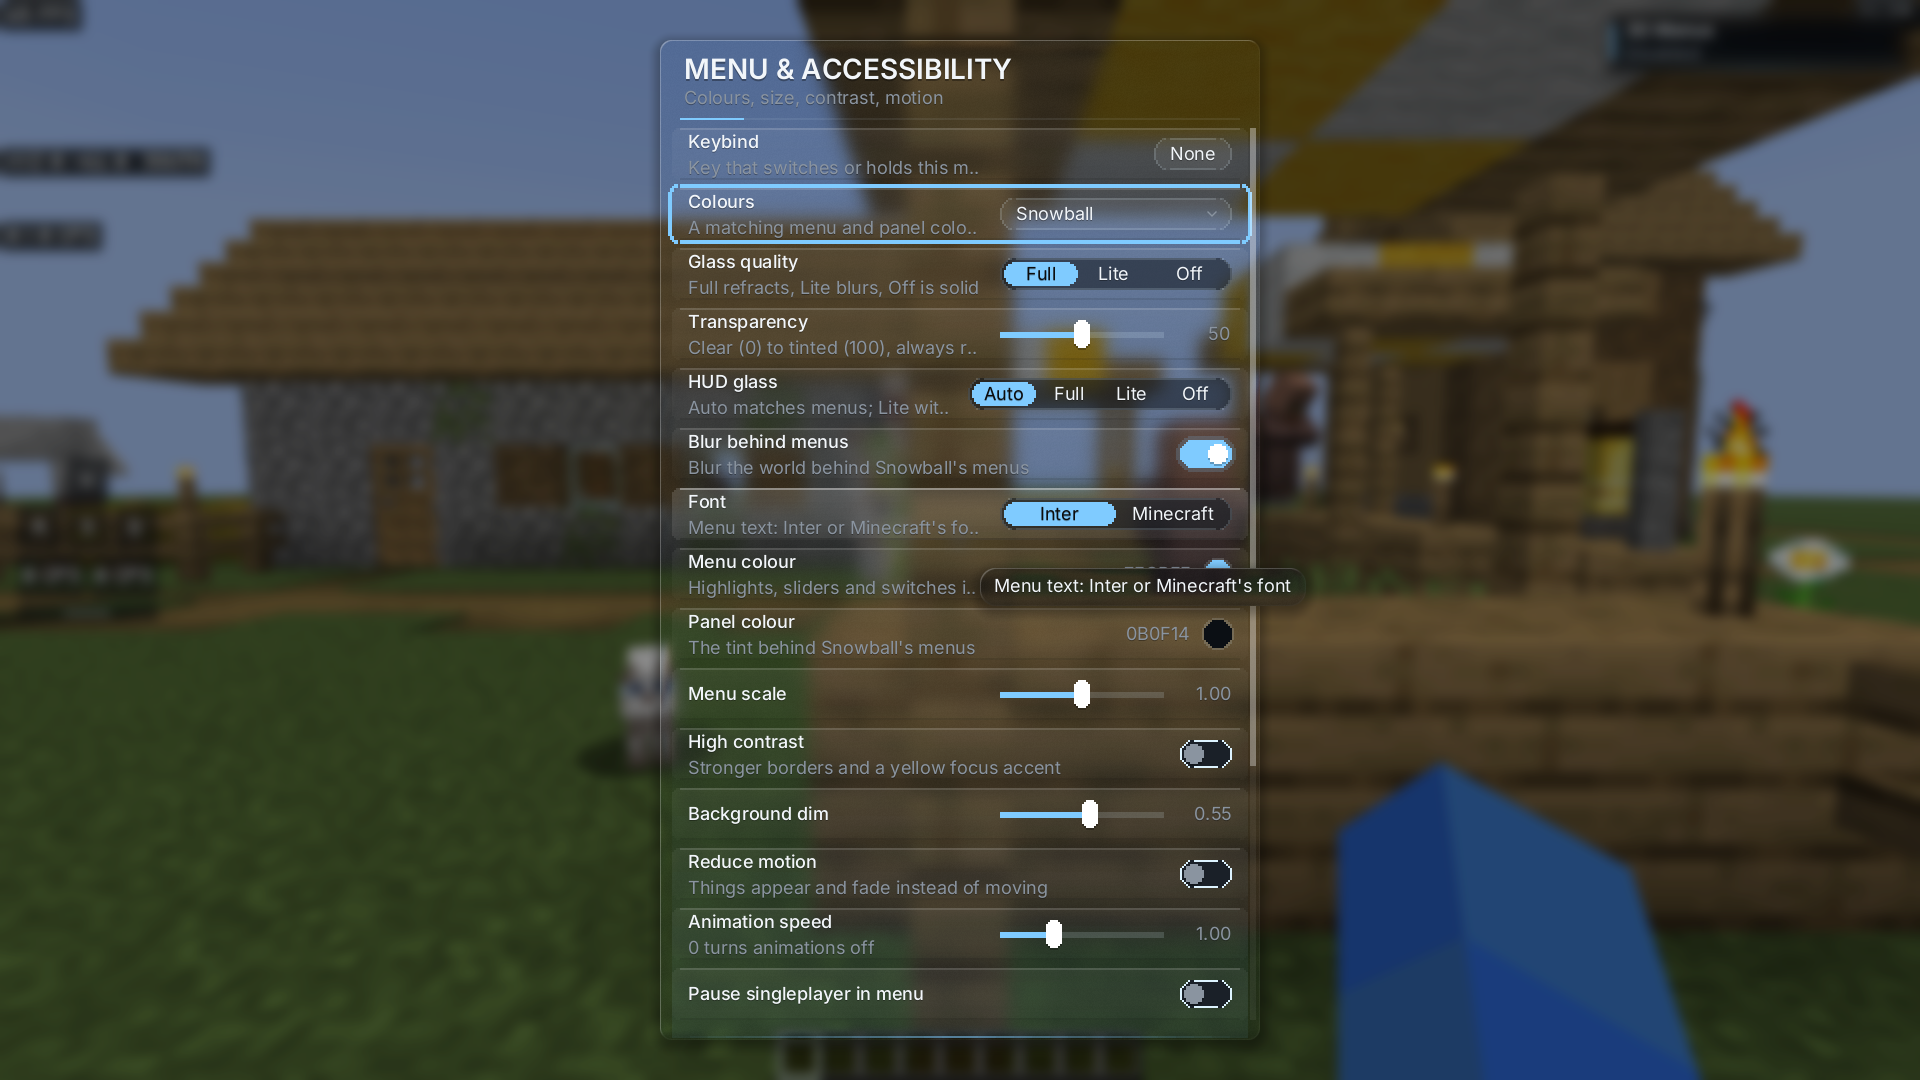
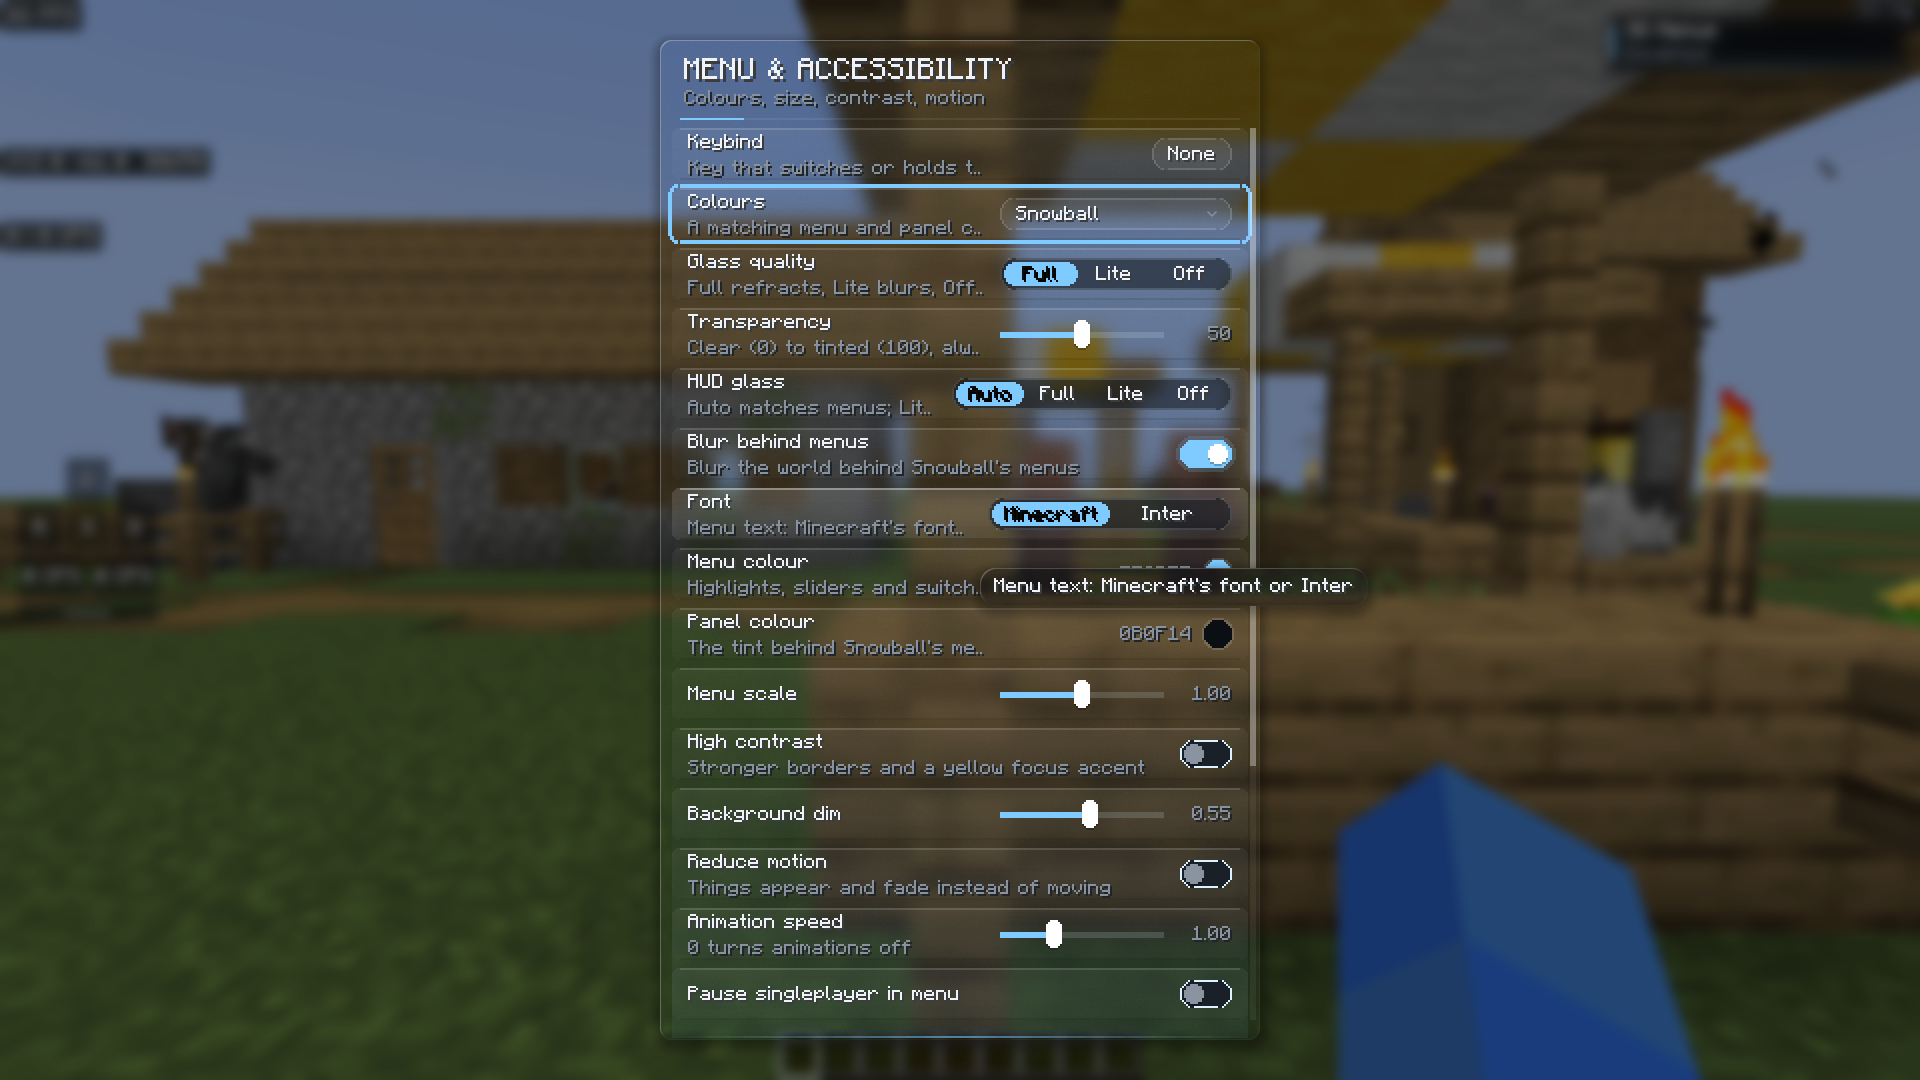
Snowball menus back in Minecraft's font by default
Minecraft's font is the default again everywhere, the main menu
included; Inter stays as the smooth-font option under Menu &
Accessibility. Anyone who had 1.10.0's Smooth text on keeps the smooth
font.

diff --git a/client/src/test/java/dev/snowballclient/client/gui/GlassLookTest.java b/client/src/test/java/dev/snowballclient/client/gui/GlassLookTest.java
@@ -18,7 +18,7 @@ class GlassLookTest {
 		assertTrue(theme.blurBehind);
 		assertEquals(50, theme.glassLevel(), "Regular is the default");
 		assertEquals(0.82f, theme.panelOpacity, 0.001f, "flat panels keep their old default opacity");
-		assertEquals(Theme.FONT_INTER, theme.font);
+		assertEquals(Theme.FONT_MINECRAFT, theme.font, "Minecraft's font is the default, as before Snowglass");
 		assertEquals(Theme.HUD_GLASS_AUTO, theme.hudGlass);
 		assertFalse(theme.reduceMotion);
 	}
@@ -30,7 +30,7 @@ class GlassLookTest {
 		theme.setGlassLevel(75);
 		theme.hudGlass = Theme.GLASS_OFF;
 		theme.reduceMotion = true;
-		theme.font = Theme.FONT_MINECRAFT;
+		theme.font = Theme.FONT_INTER;
 		theme.blurBehind = false;
 		Theme loaded = new Theme();
 		loaded.fromJson(theme.toJson());
@@ -38,7 +38,7 @@ class GlassLookTest {
 		assertEquals(75, loaded.glassLevel());
 		assertEquals(Theme.GLASS_OFF, loaded.hudGlass);
 		assertTrue(loaded.reduceMotion);
-		assertEquals(Theme.FONT_MINECRAFT, loaded.font);
+		assertEquals(Theme.FONT_INTER, loaded.font);
 		assertFalse(loaded.blurBehind);
 		assertTrue(loaded.glass());
 		assertFalse(loaded.liquid());
@@ -62,7 +62,7 @@ class GlassLookTest {
 		loaded.fromJson(broken);
 		assertEquals(Theme.GLASS_FULL, loaded.glassQuality);
 		assertTrue(loaded.blurBehind);
-		assertEquals(Theme.FONT_INTER, loaded.font);
+		assertEquals(Theme.FONT_MINECRAFT, loaded.font);
 		assertEquals(100, loaded.glassLevel());
 	}
 
@@ -122,8 +122,8 @@ class GlassLookTest {
 		settings.glassLevel.set(100.0);
 		assertEquals(100, theme.glassLevel());
 		assertEquals(1f, theme.panelOpacity, 0.001f);
-		settings.font.set(Theme.FONT_MINECRAFT);
-		assertEquals(Theme.FONT_MINECRAFT, theme.font);
+		settings.font.set(Theme.FONT_INTER);
+		assertEquals(Theme.FONT_INTER, theme.font);
 		settings.reduceMotion.set(true);
 		assertEquals(0f, theme.motion());
 		settings.hudGlass.set(Theme.GLASS_LITE);
@@ -141,6 +141,22 @@ class GlassLookTest {
 		assertEquals(Theme.MAX_SCALE, theme.scale);
 		settings.scale.set(0.5);
 		assertEquals(Theme.MIN_SCALE, theme.scale);
+	}
+
+	@Test
+	void smoothTextFromBeforeSnowglassBecomesTheSmoothFont() {
+		Theme theme = new Theme();
+		dev.snowballclient.client.module.ModuleManager modules = new dev.snowballclient.client.module.ModuleManager();
+		InterfaceSettings settings = modules.register(new InterfaceSettings(theme, new ClientSettings()));
+		modules.loadState(com.google.gson.JsonParser.parseString("{\"interface\":{\"settings\":{\"smooth_font\":true}}}").getAsJsonObject());
+		assertEquals(Theme.FONT_INTER, settings.font.get(), "a player who turned Smooth text on keeps it");
+		assertEquals(Theme.FONT_INTER, theme.font);
+
+		Theme other = new Theme();
+		dev.snowballclient.client.module.ModuleManager modules2 = new dev.snowballclient.client.module.ModuleManager();
+		InterfaceSettings settings2 = modules2.register(new InterfaceSettings(other, new ClientSettings()));
+		modules2.loadState(com.google.gson.JsonParser.parseString("{\"interface\":{\"settings\":{\"smooth_font\":false}}}").getAsJsonObject());
+		assertEquals(Theme.FONT_MINECRAFT, settings2.font.get(), "everyone else keeps Minecraft's font");
 	}
 
 	@Test

diff --git a/client/src/main/java/dev/snowballclient/client/module/client/InterfaceSettings.java b/client/src/main/java/dev/snowballclient/client/module/client/InterfaceSettings.java
@@ -1,5 +1,7 @@
 package dev.snowballclient.client.module.client;
 
+import com.google.gson.JsonElement;
+import com.google.gson.JsonObject;
 import dev.snowballclient.client.config.ClientSettings;
 import dev.snowballclient.client.gui.theme.Theme;
 import dev.snowballclient.client.module.Module;
@@ -69,7 +71,7 @@ public final class InterfaceSettings extends Module {
 		glassLevel = setting(new NumberSetting("glass_level", "Transparency", "Clear (0) to tinted (100), always readable", factory.glassLevel(), 0, 100, 5));
 		hudGlass = setting(new ChoiceSetting("hud_glass", "HUD glass", "Auto matches menus; Lite with FPS Boost", factory.hudGlass, Theme.HUD_GLASS));
 		blurBehind = setting(new BooleanSetting("blur_behind", "Blur behind menus", "Blur the world behind Snowball's menus", true));
-		font = setting(new ChoiceSetting("font", "Font", "Menu text: Inter or Minecraft's font", factory.font, Theme.FONTS));
+		font = setting(new ChoiceSetting("font", "Font", "Menu text: Minecraft's font or Inter", factory.font, Theme.FONTS));
 		menuColor = setting(new ColorSetting("menu_color", "Menu colour", "Highlights, sliders and switches in every Snowball menu", factory.accentColor));
 		panelColor = setting(new ColorSetting("panel_color", "Panel colour", "The tint behind Snowball's menus", factory.surfaceColor).presets(PANEL_PRESETS));
 		scale = setting(new NumberSetting("scale", "Menu scale", "", theme.scale, Theme.MIN_SCALE, Theme.MAX_SCALE, 0.05));
@@ -165,6 +167,15 @@ public final class InterfaceSettings extends Module {
 	@Override
 	public boolean isToggleable() {
 		return false;
+	}
+
+	/** Smooth text (1.10.0) became the Font setting: a player who had it on keeps the smooth font. */
+	@Override
+	protected void migrateSettings(JsonObject saved) {
+		JsonElement smooth = saved.get("smooth_font");
+		if (!saved.has("font") && smooth != null && smooth.isJsonPrimitive() && smooth.getAsJsonPrimitive().isBoolean() && smooth.getAsBoolean()) {
+			saved.addProperty("font", Theme.FONT_INTER);
+		}
 	}
 
 	public boolean consumeThemeDirty() {

diff --git a/client/src/main/java/dev/snowballclient/client/gui/theme/Theme.java b/client/src/main/java/dev/snowballclient/client/gui/theme/Theme.java
@@ -22,7 +22,7 @@ public final class Theme {
 	public static final List<String> HUD_GLASS = List.of(HUD_GLASS_AUTO, GLASS_FULL, GLASS_LITE, GLASS_OFF);
 	public static final String FONT_INTER = "inter";
 	public static final String FONT_MINECRAFT = "minecraft";
-	public static final List<String> FONTS = List.of(FONT_INTER, FONT_MINECRAFT);
+	public static final List<String> FONTS = List.of(FONT_MINECRAFT, FONT_INTER);
 	public static final float MIN_SCALE = 0.75f;
 	public static final float MAX_SCALE = 1.25f;
 	/** The panel colour before Snowglass, migrated to the brand surface colour when it was never changed. */
@@ -54,8 +54,8 @@ public final class Theme {
 	public String hudGlass = HUD_GLASS_AUTO;
 	/** Short fades instead of movement. */
 	public boolean reduceMotion = false;
-	/** {@link #FONT_INTER} or {@link #FONT_MINECRAFT} in Snowball's menus. */
-	public String font = FONT_INTER;
+	/** {@link #FONT_MINECRAFT} (the default) or {@link #FONT_INTER} in Snowball's menus. */
+	public String font = FONT_MINECRAFT;
 	/** Blur the world behind Snowball's menus, on versions that can. */
 	public boolean blurBehind = true;
 
@@ -250,7 +250,8 @@ public final class Theme {
 	 * Upgrades a gui.json written before Snowglass (schema 1): the look becomes a glass quality, panel
 	 * opacity becomes a glass level, animation speed 0 becomes Reduce Motion, and the old default panel
 	 * colour becomes the brand's. Values a player chose themselves are kept as close as the new settings
-	 * allow. Smooth text was off by default and Inter is now on for everyone, so it is not carried over.
+	 * allow. The font was never in gui.json (Smooth text lived in modules.json; InterfaceSettings carries
+	 * it over), so Minecraft's font stays the default, as it was.
 	 */
 	public static JsonObject migrateFromV1(JsonObject o) {
 		JsonElement style = o.remove("style");

diff --git a/client/src/main/java/dev/snowballclient/client/gui/UiText.java b/client/src/main/java/dev/snowballclient/client/gui/UiText.java
@@ -144,14 +144,7 @@ public final class UiText {
 
 	/** Whether text on this canvas is smooth right now. */
 	public static boolean smooth(Canvas c) {
-		return (alwaysSmooth || ModuleRegistry.INTERFACE == null || Theme.FONT_INTER.equals(ModuleRegistry.INTERFACE.font.get())) && SmoothText.usable(c);
-	}
-
-	private static boolean alwaysSmooth;
-
-	/** Smooth text whatever the Font setting says, until set back: the main menu always has it. Render thread only. */
-	public static void setAlwaysSmooth(boolean on) {
-		alwaysSmooth = on;
+		return (ModuleRegistry.INTERFACE == null || Theme.FONT_INTER.equals(ModuleRegistry.INTERFACE.font.get())) && SmoothText.usable(c);
 	}
 
 	/** The weight of the smooth font used for this kind of text. */

diff --git a/client/src/main/java/dev/snowballclient/client/gui/TitleMenuView.java b/client/src/main/java/dev/snowballclient/client/gui/TitleMenuView.java
@@ -215,16 +215,6 @@ public final class TitleMenuView extends View {
 
 	@Override
 	public void render(Canvas c, int mouseX, int mouseY, float partialTick) {
-		// The main menu is always in the smooth font; Snowball's other menus follow Smooth text.
-		UiText.setAlwaysSmooth(true);
-		try {
-			renderMenu(c, mouseX, mouseY, partialTick);
-		} finally {
-			UiText.setAlwaysSmooth(false);
-		}
-	}
-
-	private void renderMenu(Canvas c, int mouseX, int mouseY, float partialTick) {
 		if (ModuleRegistry.INTERFACE != null && !ModuleRegistry.INTERFACE.customMainMenu.isOn()) {
 			actions.showVanillaTitle();
 			return;

diff --git a/client/src/test/java/dev/snowballclient/client/config/ConfigTest.java b/client/src/test/java/dev/snowballclient/client/config/ConfigTest.java
@@ -178,7 +178,7 @@ class ConfigTest {
 		assertEquals(Theme.MAX_SCALE, theme.scale, "menu scale is clamped to 75-125%");
 		assertEquals(0xFFB794FF, theme.accentColor);
 		assertFalse(theme.blurBehind);
-		assertEquals(Theme.FONT_INTER, theme.font, "Inter is on for everyone");
+		assertEquals(Theme.FONT_MINECRAFT, theme.font, "Minecraft's font stays the default");
 		assertEquals(Theme.HUD_GLASS_AUTO, theme.hudGlass);
 
 		// Saved again, the file is schema 2 with no trace of the old keys.

diff --git a/docs/ui-revamp/PLAN.md b/docs/ui-revamp/PLAN.md
@@ -1,6 +1,6 @@
 # Snowglass: in-game UI revamp plan (Phase 0)
 
-Status: **approved 2026-11-01**, with the recommended answers to all eight questions in §15, **except Q1: the radial wheel stays** (decided later the same day). Branch: `ui/snowglass`. Progress is tracked in PROGRESS.md.
+Status: **approved 2026-11-01**, with the recommended answers to all eight questions in §15, **except Q1: the radial wheel stays, and Q3: Minecraft's font is the default** (both decided later the same day). Branch: `ui/snowglass`. Progress is tracked in PROGRESS.md.
 Everything marked *verified* was checked this session against the repo, the Minecraft jars in the Gradle cache
 (`javap` on the 26.2 deobf jar and the Mojang-mapped 1.21.11 jar; there are no decompiled sources in the cache),
 or the extracted vanilla shaders. Everything marked *to verify* has not been checked yet and is scheduled.
@@ -522,7 +522,7 @@ One commit per milestone on `ui/snowglass`; no pushes unless asked.
 
 1. **Mod menu:** replace the radial wheel with the sidebar window? *Recommended: yes, replace.* (Keeping both doubles M4.) **Final answer: keep the wheel** and restyle it in place.
 2. **1.8.9:** it shares the UI code. *Recommended:* it gets the new layout and components automatically with the Off material and no shader work. The alternative, freezing 1.8.9 on today's UI, means forking ~55 files.
-3. **Typeface:** Inter, as in the brief, replacing Nunito everywhere, the main menu included, and **on by default for everyone**, with "Minecraft font" as the option? *Recommended: yes.* The alternatives are keeping Nunito, or Monocraft to match the launcher.
+3. **Typeface:** Inter, as in the brief, replacing Nunito everywhere, the main menu included, and **on by default for everyone**, with "Minecraft font" as the option? *Recommended: yes.* The alternatives are keeping Nunito, or Monocraft to match the launcher. **Final answer: Minecraft's font is the default everywhere, the main menu included; Inter stays as the smooth-font option** (it replaced Nunito), and anyone who had 1.10.0's Smooth text on keeps the smooth font.
 4. **Icons:** keep and extend Snowball's own line icons instead of adopting Lucide or Phosphor? *Recommended: keep* (original, already pixel-exact, "recognisably Snowball").
 5. **Main menu and loading screen:** restyle `TitleMenuView` with Snowglass, keeping its layout, in M6; leave the loading screen and the vanilla pause screen alone? *Recommended: yes.*
 6. **Favourites:** add per-module favourites to support the Favourites chip? *Recommended: yes.*

diff --git a/docs/ui-revamp/PROGRESS.md b/docs/ui-revamp/PROGRESS.md
@@ -5,6 +5,12 @@ The plan was approved on 2026-11-01 with the recommended answers to Q1–Q8 (PLA
 
 ## Current state: M3 (controls) done, in the wheel menu's settings pages
 
+**Font, decided 2026-11-01 (user):** Minecraft's font is back as the default, the main menu included.
+- Inter stays as the option under Menu & Accessibility → Font. It replaced Nunito as the smooth font.
+- The main menu no longer forces the smooth font (`UiText.setAlwaysSmooth` is gone).
+- 1.10.0's `smooth_font` (modules.json) carries over: anyone who had it on gets Inter (`InterfaceSettings.migrateSettings`).
+- The "Inter replaces Nunito" notes under M1 still describe the smooth font; it is just not the default any more.
+
 ### M3: what changed
 
 - **`gui/snowglass/Controls`** (shared; draws on any canvas):
